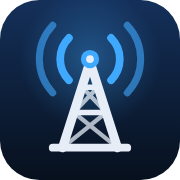
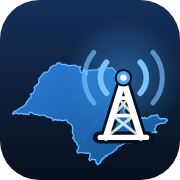
v2.13.1: ícone com o mapa de São Paulo e a torre
Claude-Session: https://claude.ai/code/session_012m9VYrS1uTTaNrdShccExi

diff --git a/INSTALL.md b/INSTALL.md
@@ -74,7 +74,7 @@ No final ele mostra o endereço de acesso, algo como:
 
 ## Primeiro acesso
 
-**Atalho como aplicativo:** o sistema tem ícone próprio (torre com sinal). No Chrome ou Edge do computador, use o menu ⋮ → **Transmitir, salvar e compartilhar → Instalar página como app** (ou o ícone de instalar na barra de endereço). No celular: Android, menu ⋮ → **Adicionar à tela inicial**; iPhone, **Compartilhar → Adicionar à Tela de Início**. Ele abre em janela própria, como um programa.
+**Atalho como aplicativo:** o sistema tem ícone próprio (mapa do estado de São Paulo com a torre transmitindo). No Chrome ou Edge do computador, use o menu ⋮ → **Transmitir, salvar e compartilhar → Instalar página como app** (ou o ícone de instalar na barra de endereço). No celular: Android, menu ⋮ → **Adicionar à tela inicial**; iPhone, **Compartilhar → Adicionar à Tela de Início**. Ele abre em janela própria, como um programa.
 
 
 1. Abra o endereço no navegador de qualquer computador da rede.
